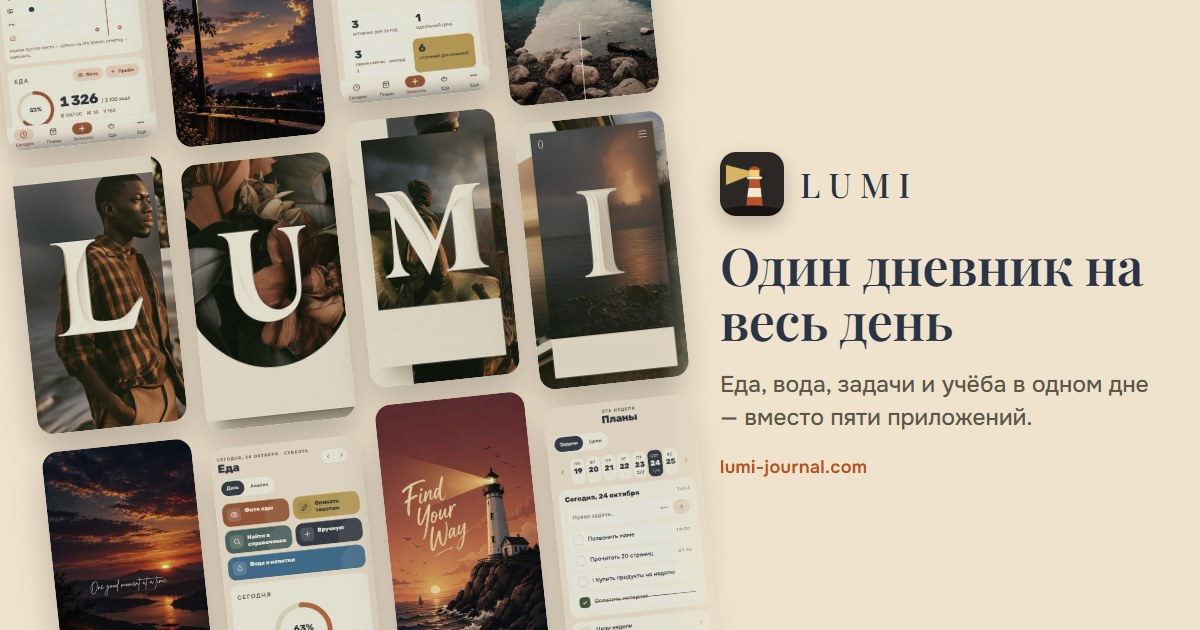
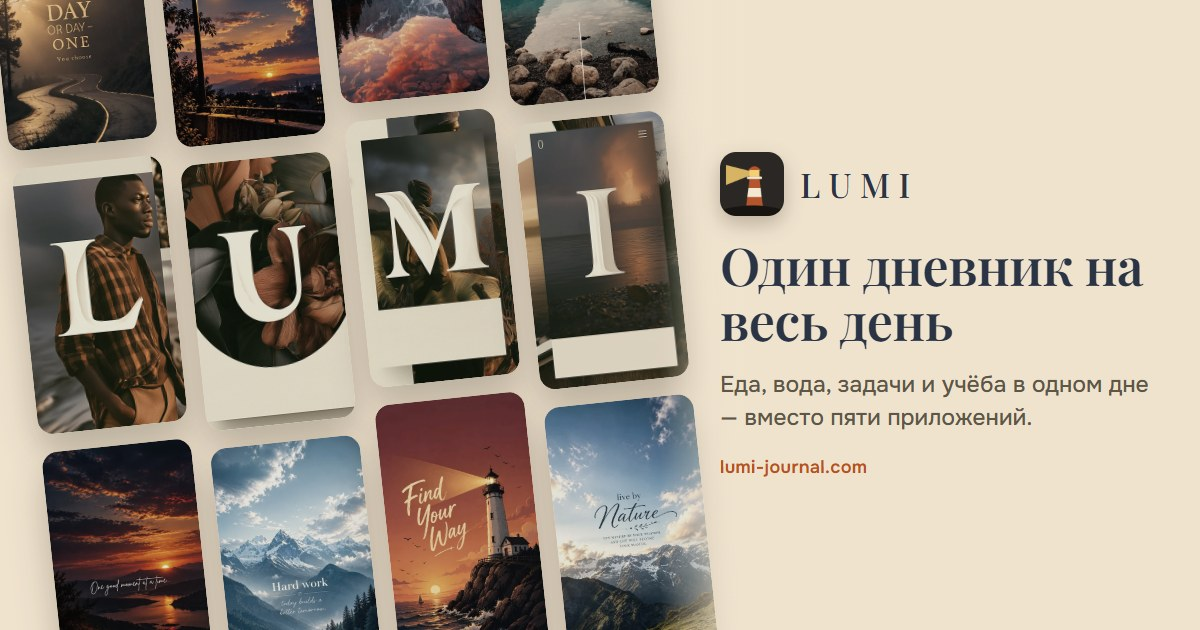
Вход: без скриншотов приложения на стене — снова только постеры; превью ссылки так же

diff --git a/packages/core/src/version.ts b/packages/core/src/version.ts
@@ -13,7 +13,6 @@ export const RELEASES: Release[] = [
       'Lumi теперь живёт на lumi-journal.com — открывается с любого устройства.',
       'Новая страница входа: стена постеров, слово LUMI прямо в лентах и луч маяка. Колёсико мыши разгоняет ленту.',
       '«Попробовать без регистрации» — демо с примером дня на сутки, прямо на первом экране. Понравилось — сохрани его как свой аккаунт, записи останутся.',
-      'На стене входа теперь и экраны самого Lumi: день, еда, статистика и планы.',
       'Регистрация: почта обязательна, пароль вводится дважды. Войти можно по логину, по почте или через Google.',
       'Подсказки на входе: предупреждение о Caps Lock, надёжность пароля, Enter в логине переводит к паролю.',
       'Форма входа целиком помещается на экране ноутбука.',

diff --git a/apps/web/src/screens/Login.tsx b/apps/web/src/screens/Login.tsx
@@ -11,10 +11,9 @@ import { PasswordInput } from '../components/PasswordInput';
 import { ThemeToggle } from '../components/ThemeToggle';
 
 // 23 постера по кругу оттенков (собираются из Documents/Lumi/login page): 240 и 400 px — показываем не крупнее
-const N = 27;
-// какие постеры на стене (номера файлов): тёплые пейзажи и закаты + экраны самого Lumi (24–27: «Сегодня», «Еда», «Статистика», «Планы»),
-// по одному экрану в каждой ленте — стена заодно показывает, что внутри
-const PICK = [1, 3, 5, 6, 24, 7, 26, 13, 14, 25, 19, 27, 20, 23];
+const N = 23;
+// какие постеры на стене (номера файлов): одна гамма с логотипом — тёплые пейзажи и закаты
+const PICK = [1, 3, 5, 6, 7, 9, 13, 14, 15, 17, 19, 20, 22, 23];
 const PER = 11;                         // секунд на постер — у всех лент одна скорость
 const LETTERS = 4;                      // L, U, M, I — карточки логотипа (public/lumi/logo)
 const PHONE_Q = '(max-width: 899px)';

diff --git a/CHANGELOG.md b/CHANGELOG.md
@@ -9,7 +9,6 @@
 - Lumi теперь живёт на lumi-journal.com — открывается с любого устройства.
 - Новая страница входа: стена постеров, слово LUMI прямо в лентах и луч маяка. Колёсико мыши разгоняет ленту.
 - «Попробовать без регистрации» — демо с примером дня на сутки, прямо на первом экране. Понравилось — сохрани его как свой аккаунт, записи останутся.
-- На стене входа теперь и экраны самого Lumi: день, еда, статистика и планы.
 - Регистрация: почта обязательна, пароль вводится дважды. Войти можно по логину, по почте или через Google.
 - Подсказки на входе: предупреждение о Caps Lock, надёжность пароля, Enter в логине переводит к паролю.
 - Форма входа целиком помещается на экране ноутбука.
